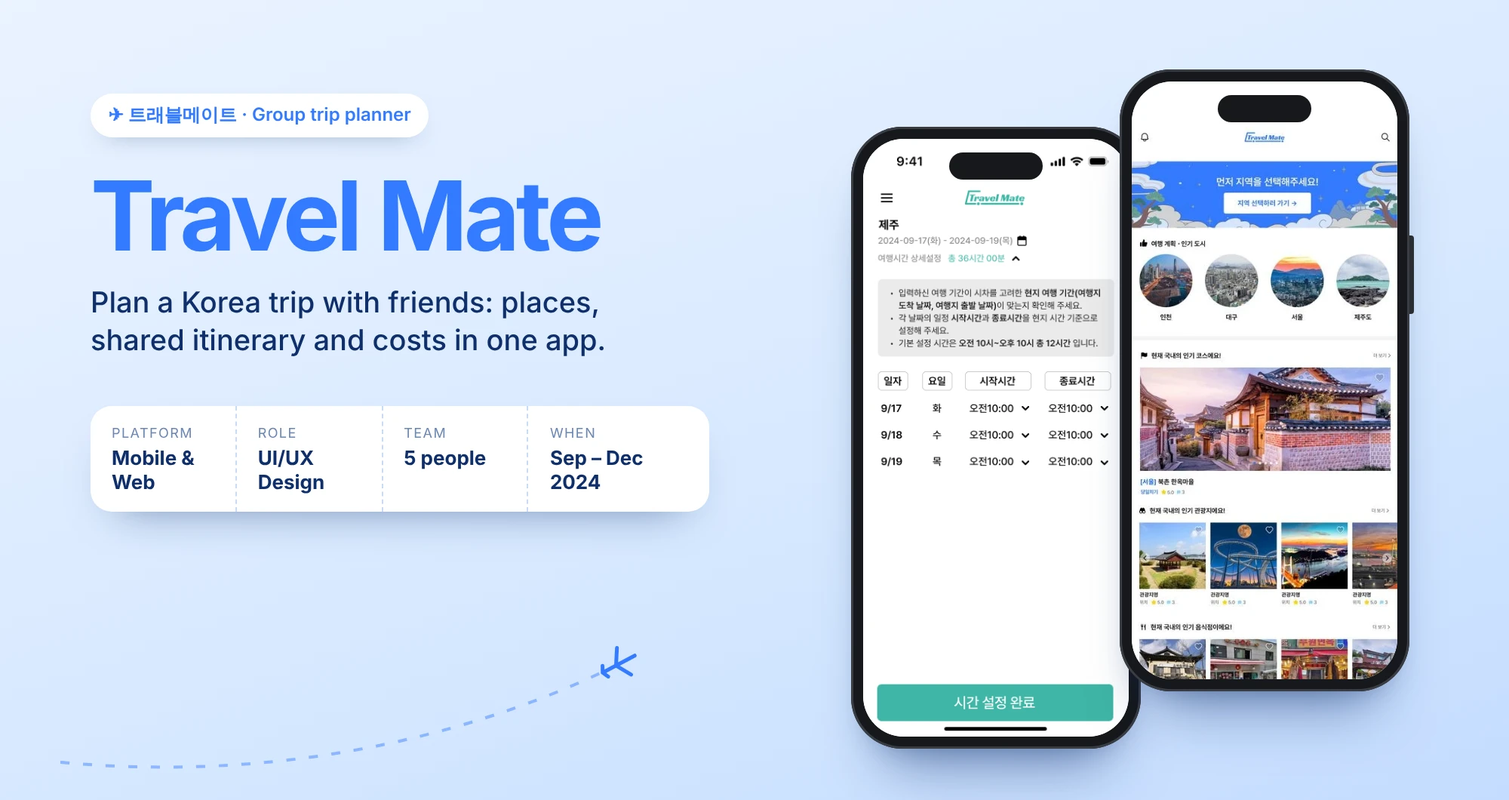
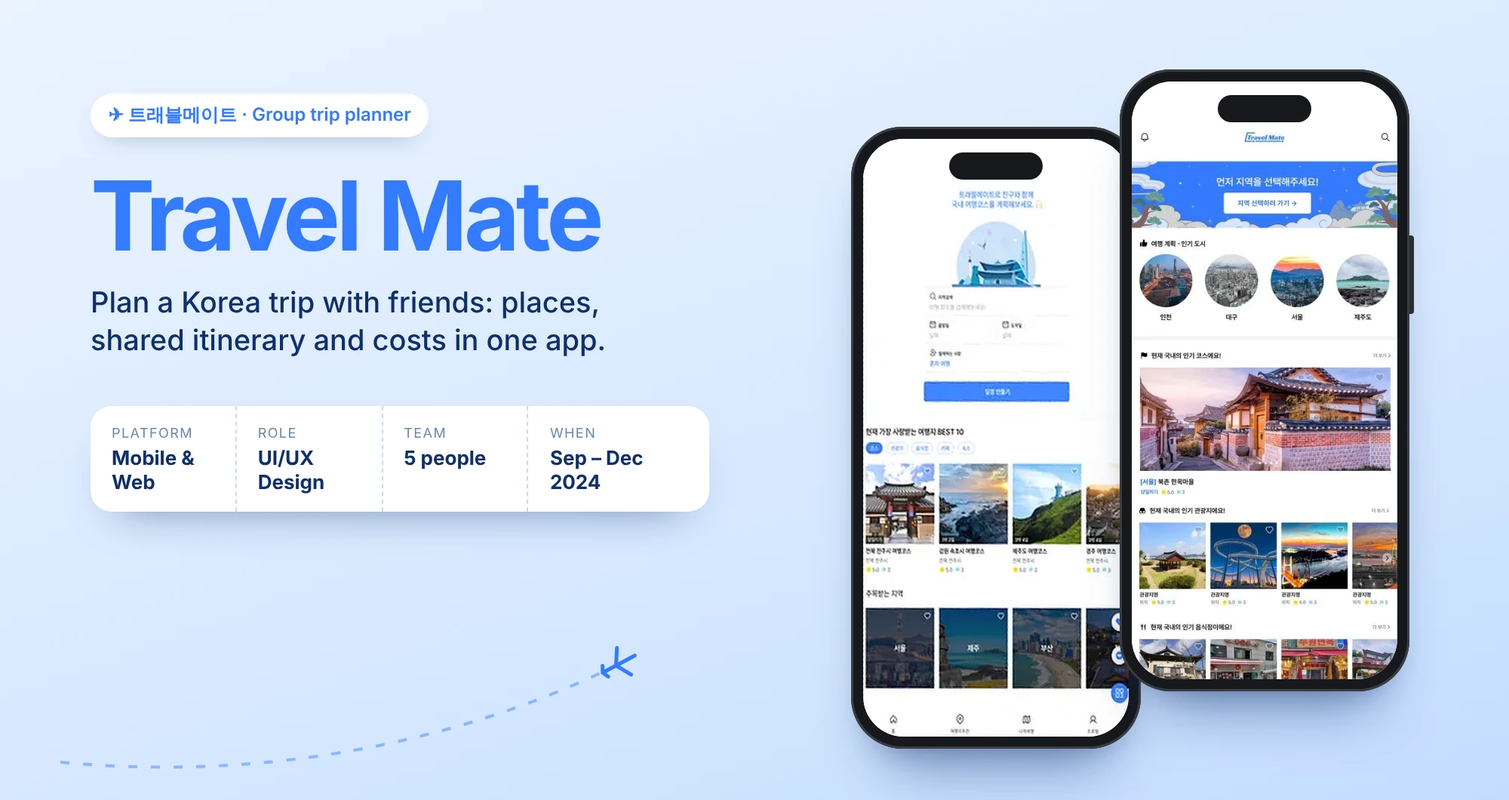
Restore Travel Mate start screen in cover mockup
Claude-Session: https://claude.ai/code/session_01XrSCNk8CdZFL88DQkgrBgR

Changed region(s): [[0.558, 0.2179, 0.775, 0.934], [0.682, 0.1868, 0.744, 0.2179], [0.589, 0.1868, 0.62, 0.2179]]

diff --git a/travel-mate.html b/travel-mate.html
@@ -26,7 +26,7 @@
 </header>
 <main class="page page-project" id="travel-mate">
 <div class="page-content">
-<nav aria-label="Breadcrumb" class="crumb"><a href="ux.html">← UX Design</a> / Travel Mate</nav><header class="cs-head"><h1 class="cs-title">Travel Mate<span class="dot">.</span></h1><p class="cs-sub">Group travel planning app</p><ul class="chips"><li>UX Design</li><li>Developer Collaboration</li><li>App Design</li></ul></header><div class="hf-hero"><figure class="fg"><div class="fg-box" style="aspect-ratio:2000/1060; max-width:2000px; margin-inline:auto"><img alt="Travel Mate: trip-time and home screens" onerror="this.hidden=true" src="images/index/cover-travel-mate.webp?v=6"/></div></figure></div><dl class="cs-meta"><div><dt>Role</dt><dd>UX design &amp; research, design system, graphic design</dd></div><div><dt>Timeline</dt><dd>Sep – Dec 2024</dd></div><div><dt>Team</dt><dd>3 UX designers, 1 front-end, 1 back-end developer</dd></div><div><dt>Tools</dt><dd>Figma, AWS, Swagger</dd></div></dl><p class="ni-lede">With a team of designers and developers, I helped build Travel Mate, an app that makes planning a trip to Korea with friends simple. Available in English and Korean.</p><div class="csr"><div><span class="csr-k">Challenge</span><p>Planning with friends means switching between apps and endless back-and-forth.</p></div><div><span class="csr-k">Solution</span><p>One app to search places, build shared itineraries and track expenses together.</p></div><div><span class="csr-k">Result</span><p>A functional web and mobile product, refined over 16 iterations.</p></div></div><section class="ni-sec"><h2 class="ni-h">At a glance</h2><div class="stats" style="--n:4"><div class="stat"><span class="stat-n">16</span><span class="stat-l">interface design iterations</span></div><div class="stat"><span class="stat-n">100+</span><span class="stat-l">product screens</span></div><div class="stat"><span class="stat-n">2</span><span class="stat-l">platforms, web and mobile</span></div><div class="stat"><span class="stat-n">5</span><span class="stat-l">person team: 3 UX, 2 developers</span></div></div></section><section class="ni-sec"><h2 class="ni-h">Research</h2><p class="ni-note">Surveys, user data and benchmarking of comparable apps’ UI and information architecture.</p><div class="pair pair--even"><figure class="fg"><div class="fg-box" style="aspect-ratio:1500/943; max-width:1500px; margin-inline:auto"><img alt="Research findings" loading="lazy" onerror="this.hidden=true" src="images/travel-mate/04-screenshot-2025-11-17-at-1.56.48am.webp"/></div><figcaption class="shot-cap">Surveys and user data</figcaption></figure><figure class="fg"><div class="fg-box" style="aspect-ratio:1500/573; max-width:1500px; margin-inline:auto"><img alt="Benchmarking" loading="lazy" onerror="this.hidden=true" src="images/travel-mate/05-screenshot-2025-11-17-at-1.57.15am.png"/></div><figcaption class="shot-cap">Benchmarking comparable apps</figcaption></figure></div></section><section class="ni-sec"><h2 class="ni-h">From insight to decision</h2><div class="decs"><div class="dec dec--head"><p>Insight</p><span></span><p>Design decision</p></div><div class="dec"><p class="dec-i">Travel tools are split across many platforms</p><span aria-hidden="true" class="dec-arrow">→</span><p class="dec-d">Search restaurants, hotels and attractions in one app</p></div><div class="dec"><p class="dec-i">Group plans change through endless messages</p><span aria-hidden="true" class="dec-arrow">→</span><p class="dec-d">Shared routes and daily itineraries</p></div><div class="dec"><p class="dec-i">Shared costs are hard to keep track of</p><span aria-hidden="true" class="dec-arrow">→</span><p class="dec-d">Built-in shared expense tracking</p></div></div></section><section class="ni-sec"><h2 class="ni-h">Information architecture</h2><div class="pair pair--even"><figure class="fg"><div class="fg-box" style="aspect-ratio:800/953; max-width:800px; margin-inline:auto"><img alt="Information architecture" loading="lazy" onerror="this.hidden=true" src="images/travel-mate/08-ia.png"/></div><figcaption class="shot-cap">IA: home, travel plan, spots, profile</figcaption></figure><figure class="fg"><div class="fg-box" style="aspect-ratio:1500/813; max-width:1500px; margin-inline:auto"><img alt="Core features" loading="lazy" onerror="this.hidden=true" src="images/travel-mate/09-screenshot-2025-11-17-at-1.29.13am.webp"/></div><figcaption class="shot-cap">Core features</figcaption></figure></div></section><section class="ni-sec"><h2 class="ni-h">Visual system</h2><div class="pair pair--even"><figure class="fg"><div class="fg-box" style="aspect-ratio:1000/852; max-width:1000px; margin-inline:auto"><img alt="Icon set" loading="lazy" onerror="this.hidden=true" src="images/travel-mate/06-screenshot-2025-11-17-at-1.32.21am.png"/></div><figcaption class="shot-cap">Icon set</figcaption></figure><figure class="fg"><div class="fg-box" style="aspect-ratio:1000/1078; max-width:1000px; margin-inline:auto"><img alt="Moodboard" loading="lazy" onerror="this.hidden=true" src="images/travel-mate/07-screenshot-2025-11-17-at-1.30.10am.webp"/></div><figcaption class="shot-cap">Moodboard</figcaption></figure></div></section><section class="ni-sec"><h2 class="ni-h">My role: illustration &amp; key screens</h2><div class="pair pair--even"><figure class="fg"><div class="fg-box" style="aspect-ratio:794/683; max-width:794px; margin-inline:auto"><img alt="Illustration" loading="lazy" onerror="this.hidden=true" src="images/travel-mate/02-8-2.png"/></div><figcaption class="shot-cap">Illustrations of major travel spots in Korea</figcaption></figure><figure class="fg"><div class="fg-box" style="aspect-ratio:1000/1383; max-width:1000px; margin-inline:auto"><img alt="Key screens" loading="lazy" onerror="this.hidden=true" src="images/travel-mate/03-file.jpg"/></div><figcaption class="shot-cap">Main page screens</figcaption></figure></div></section><section class="ni-sec"><h2 class="ni-h">Final screens</h2>
+<nav aria-label="Breadcrumb" class="crumb"><a href="ux.html">← UX Design</a> / Travel Mate</nav><header class="cs-head"><h1 class="cs-title">Travel Mate<span class="dot">.</span></h1><p class="cs-sub">Group travel planning app</p><ul class="chips"><li>UX Design</li><li>Developer Collaboration</li><li>App Design</li></ul></header><div class="hf-hero"><figure class="fg"><div class="fg-box" style="aspect-ratio:2000/1060; max-width:2000px; margin-inline:auto"><img alt="Travel Mate: trip-time and home screens" onerror="this.hidden=true" src="images/index/cover-travel-mate.webp?v=7"/></div></figure></div><dl class="cs-meta"><div><dt>Role</dt><dd>UX design &amp; research, design system, graphic design</dd></div><div><dt>Timeline</dt><dd>Sep – Dec 2024</dd></div><div><dt>Team</dt><dd>3 UX designers, 1 front-end, 1 back-end developer</dd></div><div><dt>Tools</dt><dd>Figma, AWS, Swagger</dd></div></dl><p class="ni-lede">With a team of designers and developers, I helped build Travel Mate, an app that makes planning a trip to Korea with friends simple. Available in English and Korean.</p><div class="csr"><div><span class="csr-k">Challenge</span><p>Planning with friends means switching between apps and endless back-and-forth.</p></div><div><span class="csr-k">Solution</span><p>One app to search places, build shared itineraries and track expenses together.</p></div><div><span class="csr-k">Result</span><p>A functional web and mobile product, refined over 16 iterations.</p></div></div><section class="ni-sec"><h2 class="ni-h">At a glance</h2><div class="stats" style="--n:4"><div class="stat"><span class="stat-n">16</span><span class="stat-l">interface design iterations</span></div><div class="stat"><span class="stat-n">100+</span><span class="stat-l">product screens</span></div><div class="stat"><span class="stat-n">2</span><span class="stat-l">platforms, web and mobile</span></div><div class="stat"><span class="stat-n">5</span><span class="stat-l">person team: 3 UX, 2 developers</span></div></div></section><section class="ni-sec"><h2 class="ni-h">Research</h2><p class="ni-note">Surveys, user data and benchmarking of comparable apps’ UI and information architecture.</p><div class="pair pair--even"><figure class="fg"><div class="fg-box" style="aspect-ratio:1500/943; max-width:1500px; margin-inline:auto"><img alt="Research findings" loading="lazy" onerror="this.hidden=true" src="images/travel-mate/04-screenshot-2025-11-17-at-1.56.48am.webp"/></div><figcaption class="shot-cap">Surveys and user data</figcaption></figure><figure class="fg"><div class="fg-box" style="aspect-ratio:1500/573; max-width:1500px; margin-inline:auto"><img alt="Benchmarking" loading="lazy" onerror="this.hidden=true" src="images/travel-mate/05-screenshot-2025-11-17-at-1.57.15am.png"/></div><figcaption class="shot-cap">Benchmarking comparable apps</figcaption></figure></div></section><section class="ni-sec"><h2 class="ni-h">From insight to decision</h2><div class="decs"><div class="dec dec--head"><p>Insight</p><span></span><p>Design decision</p></div><div class="dec"><p class="dec-i">Travel tools are split across many platforms</p><span aria-hidden="true" class="dec-arrow">→</span><p class="dec-d">Search restaurants, hotels and attractions in one app</p></div><div class="dec"><p class="dec-i">Group plans change through endless messages</p><span aria-hidden="true" class="dec-arrow">→</span><p class="dec-d">Shared routes and daily itineraries</p></div><div class="dec"><p class="dec-i">Shared costs are hard to keep track of</p><span aria-hidden="true" class="dec-arrow">→</span><p class="dec-d">Built-in shared expense tracking</p></div></div></section><section class="ni-sec"><h2 class="ni-h">Information architecture</h2><div class="pair pair--even"><figure class="fg"><div class="fg-box" style="aspect-ratio:800/953; max-width:800px; margin-inline:auto"><img alt="Information architecture" loading="lazy" onerror="this.hidden=true" src="images/travel-mate/08-ia.png"/></div><figcaption class="shot-cap">IA: home, travel plan, spots, profile</figcaption></figure><figure class="fg"><div class="fg-box" style="aspect-ratio:1500/813; max-width:1500px; margin-inline:auto"><img alt="Core features" loading="lazy" onerror="this.hidden=true" src="images/travel-mate/09-screenshot-2025-11-17-at-1.29.13am.webp"/></div><figcaption class="shot-cap">Core features</figcaption></figure></div></section><section class="ni-sec"><h2 class="ni-h">Visual system</h2><div class="pair pair--even"><figure class="fg"><div class="fg-box" style="aspect-ratio:1000/852; max-width:1000px; margin-inline:auto"><img alt="Icon set" loading="lazy" onerror="this.hidden=true" src="images/travel-mate/06-screenshot-2025-11-17-at-1.32.21am.png"/></div><figcaption class="shot-cap">Icon set</figcaption></figure><figure class="fg"><div class="fg-box" style="aspect-ratio:1000/1078; max-width:1000px; margin-inline:auto"><img alt="Moodboard" loading="lazy" onerror="this.hidden=true" src="images/travel-mate/07-screenshot-2025-11-17-at-1.30.10am.webp"/></div><figcaption class="shot-cap">Moodboard</figcaption></figure></div></section><section class="ni-sec"><h2 class="ni-h">My role: illustration &amp; key screens</h2><div class="pair pair--even"><figure class="fg"><div class="fg-box" style="aspect-ratio:794/683; max-width:794px; margin-inline:auto"><img alt="Illustration" loading="lazy" onerror="this.hidden=true" src="images/travel-mate/02-8-2.png"/></div><figcaption class="shot-cap">Illustrations of major travel spots in Korea</figcaption></figure><figure class="fg"><div class="fg-box" style="aspect-ratio:1000/1383; max-width:1000px; margin-inline:auto"><img alt="Key screens" loading="lazy" onerror="this.hidden=true" src="images/travel-mate/03-file.jpg"/></div><figcaption class="shot-cap">Main page screens</figcaption></figure></div></section><section class="ni-sec"><h2 class="ni-h">Final screens</h2>
 <p class="ni-note">100+ screens designed with two other UX designers. The home screen and the four-step trip setup:</p>
 <div class="tm-keys"><figure class="tm-key tm-key--full"><div class="tm-key-box"><img alt="Home: popular cities, courses and places" loading="lazy" onerror="this.hidden=true" src="images/travel-mate/30-home-screen.webp"/></div><figcaption class="shot-cap">Home: popular places</figcaption></figure><figure class="tm-key tm-key--sheet"><div class="tm-key-box"><img alt="1 · Pick travel dates" loading="lazy" onerror="this.hidden=true" src="images/travel-mate/32-sheet-trip-dates.webp"/></div><figcaption class="shot-cap">1 · Pick travel dates</figcaption></figure><figure class="tm-key tm-key--sheet"><div class="tm-key-box"><img alt="2 · Choose nights at each stay" loading="lazy" onerror="this.hidden=true" src="images/travel-mate/31-sheet-stay-dates.webp"/></div><figcaption class="shot-cap">2 · Choose nights at each stay</figcaption></figure><figure class="tm-key tm-key--sheet"><div class="tm-key-box"><img alt="3 · Choose how to get around" loading="lazy" onerror="this.hidden=true" src="images/travel-mate/33-sheet-transport.webp"/></div><figcaption class="shot-cap">3 · Choose how to get around</figcaption></figure><figure class="tm-key tm-key--full"><div class="tm-key-box"><img alt="4 · Set daily start and end times" loading="lazy" onerror="this.hidden=true" src="images/travel-mate/24-file.png"/></div><figcaption class="shot-cap">4 · Set daily start and end times</figcaption></figure></div>
 <h3 class="ni-h ni-h--sm tm-flow-h">The planning flow, on mobile and tablet</h3>

diff --git a/ux.html b/ux.html
@@ -27,7 +27,7 @@
 <main class="page page-page" id="ux">
 <div class="page-content">
 <header class="cs-head"><h1 class="cs-title">UX Design<span class="dot">.</span></h1><p class="cs-sub">Case studies in research, product design and building, from internships, leadership roles and team projects.</p></header>
-<div class="gproj-list gproj-list--stack"><a class="gproj" href="now-institute.html"><div class="gproj-cover gproj-cover--bleed" style="aspect-ratio:2000/1060"><img alt="Now Institute cover" loading="lazy" onerror="this.hidden=true" src="images/index/01-screenshot-2026-07-07-at-2.21.54pm.webp"/></div><div class="gproj-txt"><span class="gproj-n">(01)</span><h2 class="gproj-t">Now Institute</h2><p class="gproj-sub">Two websites for Morphosis Architects’ urban research wing</p><p class="gproj-d">Designed and vibe-coded Noto Now and the Now Institute site, from research on every project to two live launches.</p><dl class="gproj-meta"><dt>Year</dt><dd>May – Jul 2026</dd><dt>Role</dt><dd>UX Design Intern, Morphosis</dd><dt>Tools</dt><dd>Figma, Claude Code, Vercel</dd></dl><div class="gproj-strip" style="grid-template-columns:177.78fr 166.67fr"><img alt="" loading="lazy" src="images/now-institute/02-screenshot-2026-07-13-at-3.52.46pm.webp" style="aspect-ratio:1.7778"/><img alt="" loading="lazy" src="images/now-institute/04-notonow.png" style="aspect-ratio:1.6667"/></div><span class="gproj-go">View case study →</span></div></a><a class="gproj" href="hfes-stg.html"><div class="gproj-cover gproj-cover--bleed" style="aspect-ratio:2000/1000"><img alt="HFES STG cover" loading="lazy" onerror="this.hidden=true" src="images/index/cover-hfes-stg.webp"/></div><div class="gproj-txt"><span class="gproj-n">(02)</span><h2 class="gproj-t">HFES STG</h2><p class="gproj-sub">A website for the Sustainability Technical Group</p><p class="gproj-d">Led a volunteer team from a 200+ member survey through card sorting, testing and launch.</p><dl class="gproj-meta"><dt>Year</dt><dd>Aug 2025 – May 2026</dd><dt>Role</dt><dd>Website Lead</dd><dt>Methods</dt><dd>Survey, card sort, usability tests</dd></dl><div class="gproj-strip" style="grid-template-columns:196.46fr 133.78fr"><img alt="" loading="lazy" src="images/hfes-stg/04-screenshot-2026-03-27-at-3.34.46pm.png" style="aspect-ratio:1.9646"/><img alt="" loading="lazy" src="images/hfes-stg/06-wireframes.png" style="aspect-ratio:1.3378"/></div><span class="gproj-go">View case study →</span></div></a><a class="gproj" href="migrant-compass.html"><div class="gproj-cover gproj-cover--bleed" style="aspect-ratio:1920/940"><img alt="Migrant Compass cover" loading="lazy" onerror="this.hidden=true" src="images/index/05-title-page1.webp?v=2"/></div><div class="gproj-txt"><span class="gproj-n">(03)</span><h2 class="gproj-t">Migrant Compass</h2><p class="gproj-sub">Real-time guidance for migrants</p><p class="gproj-d">An offline-ready app giving migrants verified safety updates and resources, built at the IDEA Lab @ Fletcher.</p><dl class="gproj-meta"><dt>Year</dt><dd>Sep – Nov 2025</dd><dt>Role</dt><dd>UX research & design</dd><dt>Tools</dt><dd>Figma</dd></dl><div class="gproj-strip" style="grid-template-columns:50.96fr 51.02fr 51.02fr 45.40fr"><img alt="" loading="lazy" src="images/migrant-compass/06-migrant-compass-mobile-app-wireframe.png" style="aspect-ratio:0.5096"/><img alt="" loading="lazy" src="images/migrant-compass/15-migrant-compass-mobile-app-wireframe.png" style="aspect-ratio:0.5102"/><img alt="" loading="lazy" src="images/migrant-compass/19-w.png" style="aspect-ratio:0.5102"/><img alt="" loading="lazy" src="images/migrant-compass/21-4.png" style="aspect-ratio:0.4540"/></div><span class="gproj-go">View case study →</span></div></a><a class="gproj" href="travel-mate.html"><div class="gproj-cover gproj-cover--bleed" style="aspect-ratio:2000/1060"><img alt="Travel Mate cover" loading="lazy" onerror="this.hidden=true" src="images/index/cover-travel-mate.webp?v=6"/></div><div class="gproj-txt"><span class="gproj-n">(04)</span><h2 class="gproj-t">Travel Mate</h2><p class="gproj-sub">Group travel planning app</p><p class="gproj-d">Search, shared itineraries and expenses for planning a Korea trip with friends, designed with developers.</p><dl class="gproj-meta"><dt>Year</dt><dd>Sep – Dec 2024</dd><dt>Role</dt><dd>UX design, design system</dd><dt>Team</dt><dd>3 designers, 2 developers</dd></dl><div class="gproj-strip" style="grid-template-columns:83.95fr 78.85fr 134.05fr"><img alt="" loading="lazy" src="images/travel-mate/08-ia.png" style="aspect-ratio:0.8395"/><img alt="" loading="lazy" src="images/travel-mate/31-sheet-stay-dates.webp" style="aspect-ratio:0.7885"/><img alt="" loading="lazy" src="images/travel-mate/32-sheet-trip-dates.webp" style="aspect-ratio:1.3405"/></div><span class="gproj-go">View case study →</span></div></a><a class="gproj" href="trendy.html"><div class="gproj-cover gproj-cover--bleed" style="aspect-ratio:1500/734"><img alt="Trendy cover" loading="lazy" onerror="this.hidden=true" src="images/trendy/01-trendy.webp?v=2"/></div><div class="gproj-txt"><span class="gproj-n">(05)</span><h2 class="gproj-t">Trendy</h2><p class="gproj-sub">Beauty & fashion trend app</p><p class="gproj-d">A solo project taking a trend-shopping app from interviews and competitor research to brand and UI.</p><dl class="gproj-meta"><dt>Year</dt><dd>Jun – Aug 2024</dd><dt>Role</dt><dd>Solo designer</dd><dt>Methods</dt><dd>Interviews, journey map</dd></dl><div class="gproj-strip" style="grid-template-columns:196.42fr 167.52fr"><img alt="" loading="lazy" src="images/trendy/05-persona.webp?v=2" style="aspect-ratio:1.9642"/><img alt="" loading="lazy" src="images/trendy/10-final-screens.webp" style="aspect-ratio:1.6752"/></div><span class="gproj-go">View case study →</span></div></a></div>
+<div class="gproj-list gproj-list--stack"><a class="gproj" href="now-institute.html"><div class="gproj-cover gproj-cover--bleed" style="aspect-ratio:2000/1060"><img alt="Now Institute cover" loading="lazy" onerror="this.hidden=true" src="images/index/01-screenshot-2026-07-07-at-2.21.54pm.webp"/></div><div class="gproj-txt"><span class="gproj-n">(01)</span><h2 class="gproj-t">Now Institute</h2><p class="gproj-sub">Two websites for Morphosis Architects’ urban research wing</p><p class="gproj-d">Designed and vibe-coded Noto Now and the Now Institute site, from research on every project to two live launches.</p><dl class="gproj-meta"><dt>Year</dt><dd>May – Jul 2026</dd><dt>Role</dt><dd>UX Design Intern, Morphosis</dd><dt>Tools</dt><dd>Figma, Claude Code, Vercel</dd></dl><div class="gproj-strip" style="grid-template-columns:177.78fr 166.67fr"><img alt="" loading="lazy" src="images/now-institute/02-screenshot-2026-07-13-at-3.52.46pm.webp" style="aspect-ratio:1.7778"/><img alt="" loading="lazy" src="images/now-institute/04-notonow.png" style="aspect-ratio:1.6667"/></div><span class="gproj-go">View case study →</span></div></a><a class="gproj" href="hfes-stg.html"><div class="gproj-cover gproj-cover--bleed" style="aspect-ratio:2000/1000"><img alt="HFES STG cover" loading="lazy" onerror="this.hidden=true" src="images/index/cover-hfes-stg.webp"/></div><div class="gproj-txt"><span class="gproj-n">(02)</span><h2 class="gproj-t">HFES STG</h2><p class="gproj-sub">A website for the Sustainability Technical Group</p><p class="gproj-d">Led a volunteer team from a 200+ member survey through card sorting, testing and launch.</p><dl class="gproj-meta"><dt>Year</dt><dd>Aug 2025 – May 2026</dd><dt>Role</dt><dd>Website Lead</dd><dt>Methods</dt><dd>Survey, card sort, usability tests</dd></dl><div class="gproj-strip" style="grid-template-columns:196.46fr 133.78fr"><img alt="" loading="lazy" src="images/hfes-stg/04-screenshot-2026-03-27-at-3.34.46pm.png" style="aspect-ratio:1.9646"/><img alt="" loading="lazy" src="images/hfes-stg/06-wireframes.png" style="aspect-ratio:1.3378"/></div><span class="gproj-go">View case study →</span></div></a><a class="gproj" href="migrant-compass.html"><div class="gproj-cover gproj-cover--bleed" style="aspect-ratio:1920/940"><img alt="Migrant Compass cover" loading="lazy" onerror="this.hidden=true" src="images/index/05-title-page1.webp?v=2"/></div><div class="gproj-txt"><span class="gproj-n">(03)</span><h2 class="gproj-t">Migrant Compass</h2><p class="gproj-sub">Real-time guidance for migrants</p><p class="gproj-d">An offline-ready app giving migrants verified safety updates and resources, built at the IDEA Lab @ Fletcher.</p><dl class="gproj-meta"><dt>Year</dt><dd>Sep – Nov 2025</dd><dt>Role</dt><dd>UX research & design</dd><dt>Tools</dt><dd>Figma</dd></dl><div class="gproj-strip" style="grid-template-columns:50.96fr 51.02fr 51.02fr 45.40fr"><img alt="" loading="lazy" src="images/migrant-compass/06-migrant-compass-mobile-app-wireframe.png" style="aspect-ratio:0.5096"/><img alt="" loading="lazy" src="images/migrant-compass/15-migrant-compass-mobile-app-wireframe.png" style="aspect-ratio:0.5102"/><img alt="" loading="lazy" src="images/migrant-compass/19-w.png" style="aspect-ratio:0.5102"/><img alt="" loading="lazy" src="images/migrant-compass/21-4.png" style="aspect-ratio:0.4540"/></div><span class="gproj-go">View case study →</span></div></a><a class="gproj" href="travel-mate.html"><div class="gproj-cover gproj-cover--bleed" style="aspect-ratio:2000/1060"><img alt="Travel Mate cover" loading="lazy" onerror="this.hidden=true" src="images/index/cover-travel-mate.webp?v=7"/></div><div class="gproj-txt"><span class="gproj-n">(04)</span><h2 class="gproj-t">Travel Mate</h2><p class="gproj-sub">Group travel planning app</p><p class="gproj-d">Search, shared itineraries and expenses for planning a Korea trip with friends, designed with developers.</p><dl class="gproj-meta"><dt>Year</dt><dd>Sep – Dec 2024</dd><dt>Role</dt><dd>UX design, design system</dd><dt>Team</dt><dd>3 designers, 2 developers</dd></dl><div class="gproj-strip" style="grid-template-columns:83.95fr 78.85fr 134.05fr"><img alt="" loading="lazy" src="images/travel-mate/08-ia.png" style="aspect-ratio:0.8395"/><img alt="" loading="lazy" src="images/travel-mate/31-sheet-stay-dates.webp" style="aspect-ratio:0.7885"/><img alt="" loading="lazy" src="images/travel-mate/32-sheet-trip-dates.webp" style="aspect-ratio:1.3405"/></div><span class="gproj-go">View case study →</span></div></a><a class="gproj" href="trendy.html"><div class="gproj-cover gproj-cover--bleed" style="aspect-ratio:1500/734"><img alt="Trendy cover" loading="lazy" onerror="this.hidden=true" src="images/trendy/01-trendy.webp?v=2"/></div><div class="gproj-txt"><span class="gproj-n">(05)</span><h2 class="gproj-t">Trendy</h2><p class="gproj-sub">Beauty & fashion trend app</p><p class="gproj-d">A solo project taking a trend-shopping app from interviews and competitor research to brand and UI.</p><dl class="gproj-meta"><dt>Year</dt><dd>Jun – Aug 2024</dd><dt>Role</dt><dd>Solo designer</dd><dt>Methods</dt><dd>Interviews, journey map</dd></dl><div class="gproj-strip" style="grid-template-columns:196.42fr 167.52fr"><img alt="" loading="lazy" src="images/trendy/05-persona.webp?v=2" style="aspect-ratio:1.9642"/><img alt="" loading="lazy" src="images/trendy/10-final-screens.webp" style="aspect-ratio:1.6752"/></div><span class="gproj-go">View case study →</span></div></a></div>
 <footer class="site-foot" id="contact">
 <div class="foot-row"><span>Jasmine Kim, UI/UX &amp; Graphic Designer</span>
 <span class="foot-links"><a href="mailto:jasminekim535@gmail.com">Email ↗</a><a href="https://www.linkedin.com/in/jasmine-kim-22838a339/" rel="noopener" target="_blank">LinkedIn ↗</a><a href="https://drive.google.com/file/d/1OOqGdKUFcIr9i4K3hlURFipVqCy_xz__/view?usp=sharing" rel="noopener" target="_blank">Resume ↗</a></span></div>

diff --git a/index.html b/index.html
@@ -32,7 +32,7 @@
 </header>
 <section aria-label="UX case studies" class="rsec" id="work">
 <div class="rsec-head"><h2 class="rsec-title">UX Design</h2><a class="pill" href="ux.html">See all projects</a></div>
-<div class="wkgrid wkgrid--feat"><a class="wk" href="now-institute.html"><div class="wk-img" style="aspect-ratio:2000/1060"><img alt="Now Institute cover" loading="lazy" onerror="this.hidden=true" onload="this.parentNode.style.aspectRatio='auto'" src="images/index/01-screenshot-2026-07-07-at-2.21.54pm.webp"/></div><h3 class="wk-title">Now Institute</h3><p class="wk-sub">Website Design for Morphosis</p><ul class="chips"><li>Vibe Coding</li><li>AI Tools</li><li>Prototyping</li><li>Internship</li></ul></a><a class="wk" href="hfes-stg.html"><div class="wk-img" style="aspect-ratio:2000/999"><img alt="HFES STG cover" loading="lazy" onerror="this.hidden=true" onload="this.parentNode.style.aspectRatio='auto'" src="images/index/cover-hfes-stg.webp"/></div><h3 class="wk-title">HFES STG</h3><p class="wk-sub">A website for the technical group</p><ul class="chips"><li>Leadership</li><li>Non-profit</li><li>Usability Testing</li></ul></a><a class="wk" href="migrant-compass.html"><div class="wk-img" style="aspect-ratio:1920/940"><img alt="Migrant Compass cover" loading="lazy" onerror="this.hidden=true" onload="this.parentNode.style.aspectRatio='auto'" src="images/index/05-title-page1.webp?v=2"/></div><h3 class="wk-title">Migrant Compass</h3><p class="wk-sub">Real-time guidance for migrants</p><ul class="chips"><li>Problem-solving</li><li>Teamwork</li></ul></a><a class="wk" href="travel-mate.html"><div class="wk-img" style="aspect-ratio:1500/739"><img alt="Travel Mate cover" loading="lazy" onerror="this.hidden=true" onload="this.parentNode.style.aspectRatio='auto'" src="images/index/cover-travel-mate.webp?v=6"/></div><h3 class="wk-title">Travel Mate</h3><p class="wk-sub">Group travel planning app</p><ul class="chips"><li>App Design</li><li>Cross-functional Teamwork</li></ul></a><a class="wk" href="trendy.html"><div class="wk-img" style="aspect-ratio:1500/734"><img alt="Trendy cover" loading="lazy" onerror="this.hidden=true" onload="this.parentNode.style.aspectRatio='auto'" src="images/trendy/01-trendy.webp?v=2"/></div><h3 class="wk-title">Trendy</h3><p class="wk-sub">Beauty &amp; fashion trend app</p><ul class="chips"><li>App Design</li><li>Logo Design</li><li>User Research</li></ul></a></div>
+<div class="wkgrid wkgrid--feat"><a class="wk" href="now-institute.html"><div class="wk-img" style="aspect-ratio:2000/1060"><img alt="Now Institute cover" loading="lazy" onerror="this.hidden=true" onload="this.parentNode.style.aspectRatio='auto'" src="images/index/01-screenshot-2026-07-07-at-2.21.54pm.webp"/></div><h3 class="wk-title">Now Institute</h3><p class="wk-sub">Website Design for Morphosis</p><ul class="chips"><li>Vibe Coding</li><li>AI Tools</li><li>Prototyping</li><li>Internship</li></ul></a><a class="wk" href="hfes-stg.html"><div class="wk-img" style="aspect-ratio:2000/999"><img alt="HFES STG cover" loading="lazy" onerror="this.hidden=true" onload="this.parentNode.style.aspectRatio='auto'" src="images/index/cover-hfes-stg.webp"/></div><h3 class="wk-title">HFES STG</h3><p class="wk-sub">A website for the technical group</p><ul class="chips"><li>Leadership</li><li>Non-profit</li><li>Usability Testing</li></ul></a><a class="wk" href="migrant-compass.html"><div class="wk-img" style="aspect-ratio:1920/940"><img alt="Migrant Compass cover" loading="lazy" onerror="this.hidden=true" onload="this.parentNode.style.aspectRatio='auto'" src="images/index/05-title-page1.webp?v=2"/></div><h3 class="wk-title">Migrant Compass</h3><p class="wk-sub">Real-time guidance for migrants</p><ul class="chips"><li>Problem-solving</li><li>Teamwork</li></ul></a><a class="wk" href="travel-mate.html"><div class="wk-img" style="aspect-ratio:1500/739"><img alt="Travel Mate cover" loading="lazy" onerror="this.hidden=true" onload="this.parentNode.style.aspectRatio='auto'" src="images/index/cover-travel-mate.webp?v=7"/></div><h3 class="wk-title">Travel Mate</h3><p class="wk-sub">Group travel planning app</p><ul class="chips"><li>App Design</li><li>Cross-functional Teamwork</li></ul></a><a class="wk" href="trendy.html"><div class="wk-img" style="aspect-ratio:1500/734"><img alt="Trendy cover" loading="lazy" onerror="this.hidden=true" onload="this.parentNode.style.aspectRatio='auto'" src="images/trendy/01-trendy.webp?v=2"/></div><h3 class="wk-title">Trendy</h3><p class="wk-sub">Beauty &amp; fashion trend app</p><ul class="chips"><li>App Design</li><li>Logo Design</li><li>User Research</li></ul></a></div>
 </section>
 <section aria-label="Graphic and art" class="rsec" id="designs">
 <div class="rsec-head"><h2 class="rsec-title">Graphic &amp; Art</h2><a class="pill" href="designs.html">See all projects</a></div>

diff --git a/images/MANIFEST.md b/images/MANIFEST.md
@@ -10,7 +10,7 @@ Until a file exists, the page shows a blank placeholder box at the correct size.
 | Path | Original file | Size (px) |
 |---|---|---|
 | `images/index/cover-hfes-stg.webp` | composed cover (desktop + mobile site) | 2000×1000 |
-| `images/index/cover-travel-mate.webp` | composed cover (Korea trip theme, flat phone frames with 30-home-screen + 24-file); also the Travel Mate page hero | 2000×1060 |
+| `images/index/cover-travel-mate.webp` | composed cover (Korea trip theme, flat phone frames: start screen straightened from 01-travel-mate + 30-home-screen); also the Travel Mate page hero | 2000×1060 |
 | `images/index/01-screenshot-2026-07-07-at-2.21.54pm.png` | Screenshot-2026-07-07-at-2.21.54PM.png | 3024×1602 |
 | `images/index/02-screenshot-2026-03-27-at-3.55.09pm.png` | Screenshot-2026-03-27-at-3.55.09PM.png | 2994×1496 |
 | `images/index/03-title-page.png` | title_page.png | 1920×940 |
